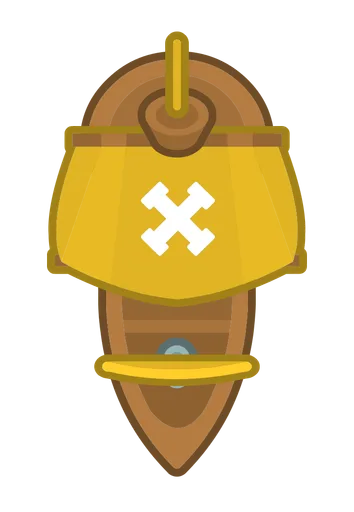
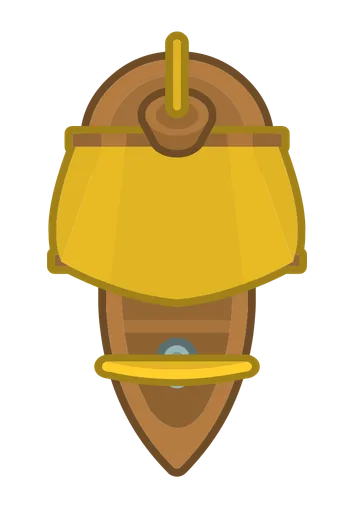
Add a T-shaped pier and plain golden sails to the pirate map

Changed region(s): [[0.404, 0.3438, 0.6215, 0.5]]

diff --git a/CHANGELOG.md b/CHANGELOG.md
@@ -10,7 +10,7 @@ The format is based on [Keep a Changelog](https://keepachangelog.com/en/1.1.0/),
 
 ### Added
 
-- Final art for the pirate theme, with no data change (slot ids and the theme id are untouched; the collectibles keep their emoji art for now): a painted map of one island with a pier, a path network and a forest, built from Kenney's Pirate Pack tiles (CC0); a lighthouse, cave, tavern and parrot, three chests (wood, silver, gold) for the rewards and an old pirate for the check-in, drawn for this repository as SVG (MIT); and a large ship with golden sails for adults and a rowing boat for children, from the Pirate Pack. The map shows the adults' ship at the pier and three moored rowing boats. Credits are listed and `CREDITS.md` is regenerated.
+- Final art for the pirate theme, with no data change (slot ids and the theme id are untouched; the collectibles keep their emoji art for now): a painted map of one island with a pier, a path network and a forest, built from Kenney's Pirate Pack tiles (CC0); a lighthouse, cave, tavern and parrot, three chests (wood, silver, gold) for the rewards and an old pirate for the check-in, drawn for this repository as SVG (MIT); and a large ship with plain golden sails for adults and a rowing boat for children, from the Pirate Pack. The map shows a T-shaped pier with the adults' ship and two moored rowing boats. Credits are listed and `CREDITS.md` is regenerated.
 - The showcase is now a "taberna" (the former "bar"), with the gender updated.
 
 ### Changed
